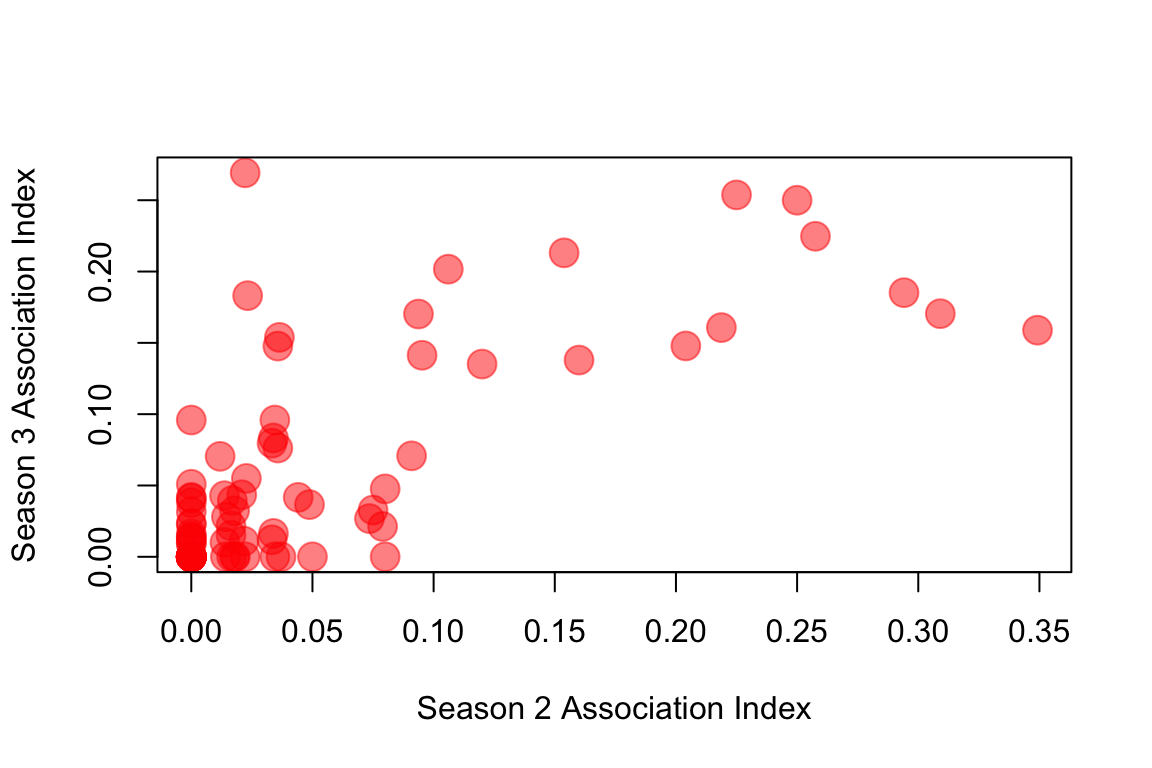
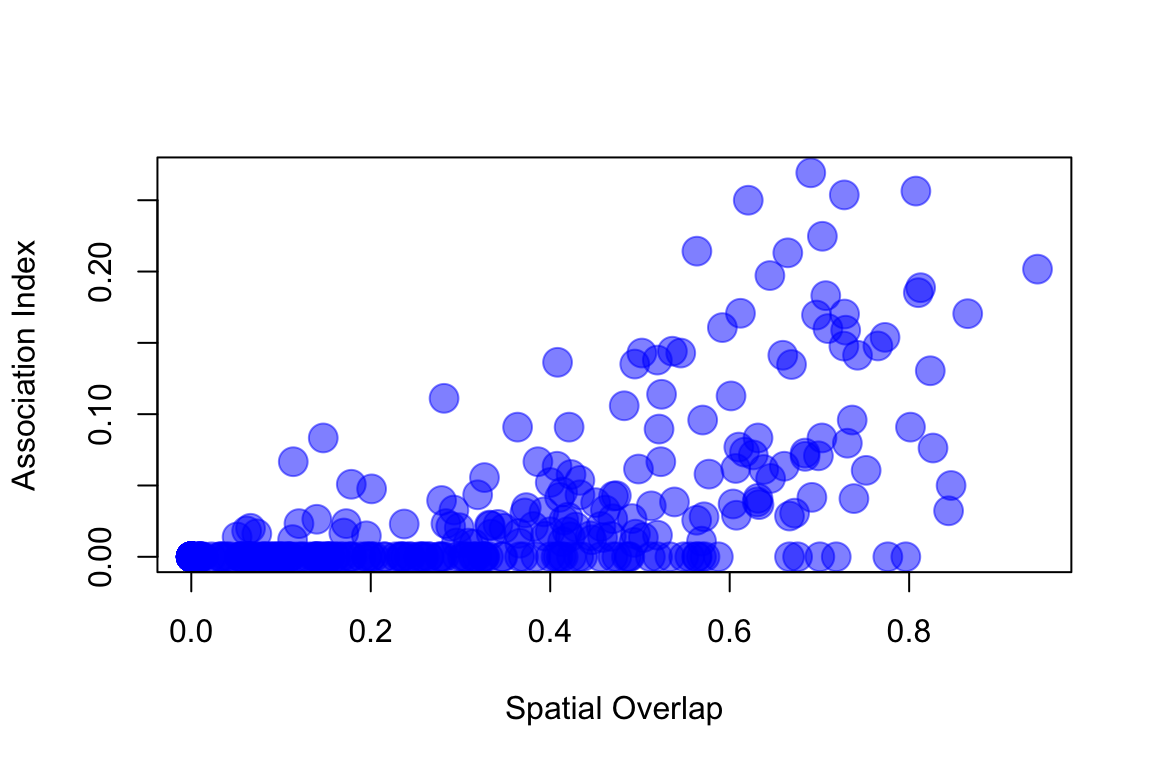
finish sparrow network exercise

diff --git a/example_sparrownet_analysis.html b/example_sparrownet_analysis.html
@@ -211,6 +211,7 @@ $(document).ready(function () {
 <li><a href="#testing-modularity-of-empirical-network-against-randomized-networks">Testing modularity of empirical network against randomized networks</a></li>
 <li><a href="#bootstrapping-to-account-for-sampling-error">Bootstrapping to account for sampling error</a></li>
 <li><a href="#testing-the-consistency-of-association-patterns-between-years">Testing the consistency of association patterns between years</a></li>
+<li><a href="#using-mrqap-to-test-for-the-effects-of-spatial-overlap-and-previous-years-association">Using MRQAP to test for the effects of spatial overlap and previous year’s association</a></li>
 </ul>
 </div>
 
@@ -259,9 +260,9 @@ adjs=lapply(m.list, function(x) get_network(t(x), data_format=&quot;GBI&quot;, a
 
 gs</code></pre>
 <pre><code>## [[1]]
-## IGRAPH 9b2b136 UNW- 39 312 -- 
+## IGRAPH c5a47fc UNW- 39 312 -- 
 ## + attr: name (v/c), weight (e/n)
-## + edges from 9b2b136 (vertex names):
+## + edges from c5a47fc (vertex names):
 ##  [1] 23734--23778 23734--23809 23734--23772 23734--7623  23734--7614 
 ##  [6] 23773--23778 23773--23732 23773--23774 23773--23862 23773--7615 
 ## [11] 23773--7636  23773--23891 23773--23772 23773--23777 23773--7627 
@@ -273,9 +274,9 @@ gs</code></pre>
 ## + ... omitted several edges
 ## 
 ## [[2]]
-## IGRAPH 16fe1e1 UNW- 26 143 -- 
+## IGRAPH 79a7c0c UNW- 26 143 -- 
 ## + attr: name (v/c), weight (e/n)
-## + edges from 16fe1e1 (vertex names):
+## + edges from 79a7c0c (vertex names):
 ##  [1] 7660 --23815 7660 --23853 7660 --7635  7660 --7673  7660 --23862
 ##  [6] 7660 --23854 7660 --7658  7660 --7609  7660 --7615  7660 --23778
 ## [11] 7660 --23770 7660 --7680  7668 --23815 7668 --23774 7668 --7673 
@@ -348,7 +349,6 @@ abline(v=mods[[1]], col=&quot;red&quot;, lty=2, lwd=2) </code></pre>
 <pre class="r"><code>p=(length(which(mod.swap2&gt;=mods[[1]]))+1)/100001
 p</code></pre>
 <pre><code>## [1] 9.9999e-06</code></pre>
-<p><img src="assets/images/example_sparrowanalysis_mswap2.png" width="70%" style="display: block; margin: auto;" /></p>
 <p>In either case, the empirical modularity value is much larger than what we expect from random. However, the P-values are different because we are comparing the empirical test statistic against a much larger pool of randomized values in the ‘serial method’ test (10,000 vs. 100).</p>
 <hr />
 </div>
@@ -364,10 +364,10 @@ g.boot=graph_from_adjacency_matrix(get_network(t(nm1)), &quot;undirected&quot;, 
 com.boot[i]=modularity(cluster_fast_greedy(g.boot)) #calculate modularity using fast_greedy community detection
 }</code></pre>
 <pre class="r"><code>boxplot(com.boot, ylab=&quot;Modularity&quot;, las=1)</code></pre>
-<p><img src="example_sparrownet_analysis_files/figure-html/unnamed-chunk-16-1.png" width="576" style="display: block; margin: auto;" /></p>
+<p><img src="example_sparrownet_analysis_files/figure-html/unnamed-chunk-15-1.png" width="576" style="display: block; margin: auto;" /></p>
 <p>We can compare the modularity values generated from this bootstrapping scheme against the modularity values generated from the randomization (i.e., group membership swap) presented above.</p>
 <pre class="r"><code>boxplot(mod.swap2[1000:10000], com.boot, col=&quot;gray&quot;, las=1, names=c(&quot;Null&quot;, &quot;Empirical \n(bootstrap)&quot;), ylab=&quot;Modularity&quot;)</code></pre>
-<p><img src="example_sparrownet_analysis_files/figure-html/unnamed-chunk-17-1.png" width="576" style="display: block; margin: auto;" /></p>
+<p><img src="example_sparrownet_analysis_files/figure-html/unnamed-chunk-16-1.png" width="576" style="display: block; margin: auto;" /></p>
 <p><em>Note: In the actual study, we used a second type of randomization scheme, which we call the “spatial null model”, which accounts for the home ranges of each individual and the location of each flock observation (not presented here). Figure 2 from the Shizuka et al. (2014) paper presents the resulting distributions of modularity values from the two randomization schemes (group membership swap &amp; spatial flock model) and the bootstrapped empirical values.</em></p>
 </div>
 <div id="testing-the-consistency-of-association-patterns-between-years" class="section level2">
@@ -387,9 +387,61 @@ mantel12=mantel(as.dist(m12)~as.dist(m21))
 mantel12</code></pre>
 <pre><code>##    mantelr      pval1      pval2      pval3  llim.2.5% ulim.97.5% 
 ##  0.7393206  0.0010000  1.0000000  0.0010000  0.6370620  0.8402951</code></pre>
-<p>So the Mantel r coefficient = 0.73, a very high correlation of association indices across years. One way to visualize this is to simply plot the association indices from Season 2 against those of Season 3. Here, I’m only going to plot the values for the upper triangle of the adjacency matrix, since the matrix is symmetrical. I’m also going to use the <code>rgb()</code> function to make transparent red circles to plot so that we can see the overlapping points.</p>
+<p>So the Mantel r coefficient = 0.74, a very high correlation of association indices across years. One way to visualize this is to simply plot the association indices from Season 2 against those of Season 3. Here, I’m only going to plot the values for the upper triangle of the adjacency matrix, since the matrix is symmetrical. I’m also going to use the <code>rgb()</code> function to make transparent red circles to plot so that we can see the overlapping points.</p>
 <pre class="r"><code>plot(m12[upper.tri(m12)], m21[upper.tri(m21)], pch=19, col=rgb(1,0,0,0.5), cex=2, xlab=&quot;Season 2 Association Index&quot;, ylab=&quot;Season 3 Association Index&quot;)</code></pre>
+<p><img src="example_sparrownet_analysis_files/figure-html/unnamed-chunk-18-1.png" width="576" style="display: block; margin: auto;" /></p>
+</div>
+<div id="using-mrqap-to-test-for-the-effects-of-spatial-overlap-and-previous-years-association" class="section level2">
+<h2>Using MRQAP to test for the effects of spatial overlap and previous year’s association</h2>
+<p>The Mantel Test and the plot above shows us that there is significant correlation between the association indices across years–i.e., birds flock with the same individuals each year. However, this effect could simply be driven by the fact that these birds are faithful to their home ranges rather than their social associates. This is important because there is no doubt that spatial overlap influences social associations (it has to, since associations are measured as co-occurrence in time and space). For example, if we import a matrix of spatial overlap between each pair of each individual (measured as the proportion of joint home range that is shared) and plot the association index relative to this measure, we get this:</p>
+<pre class="r"><code>s3=as.matrix(read.csv(&quot;GCSPspaceoverlap3.csv&quot;, header=T, row.names=1))
+ids.s3=match(rownames(s3), rownames(adjs[[2]]))
+ids.s3=na.omit(ids.s3)
+ids.adj2=match(rownames(adjs[[2]]), rownames(s3) )
+ids.adj2=na.omit(ids.adj2)
+
+s3.use=s3[ids.s3, ids.s3]
+adj.use=adjs[[2]][ids.adj2, ids.adj2]
+s3.use=s3.use[order(rownames(s3.use)),order(rownames(s3.use))]
+adj.use=adj.use[order(rownames(adj.use)),order(rownames(adj.use))]
+plot(s3.use[upper.tri(s3.use)], adj.use[upper.tri(adj.use)], pch=19, cex=2, col=rgb(0,0,1, 0.5), xlab=&quot;Spatial Overlap&quot;, ylab=&quot;Association Index&quot;)</code></pre>
 <p><img src="example_sparrownet_analysis_files/figure-html/unnamed-chunk-19-1.png" width="576" style="display: block; margin: auto;" /></p>
+<p>So how can we test for the effect of the previous year’s association on the current year’s association while taking into account the amount of spatial overlap in home ranges? This is where MRQAP (aka ‘network regression’) comes in. Here, we can use the ‘spatial overlap matrix’ and ‘previous year’s adjacency matrix’ as covariates to test their effects on the ‘current year adjacency matrix’. Briefly, the MRQAP with Double-Semipartialing (Krackhardt 1988; Dekker et al. 2007) is related to the Mantel Test, but permutes the residual matrix from each independent variable to calculate the effect of each variable on the response variable matrix. I recommend reading Dekker et al. (2007) for details on the method. We can implement MRQAP in ‘asnipe’ or ‘sna’ packages. Here, I will demonstrate its application with the ‘asnipe’ package. First, let’s make the spatial overlap matrix restricted to the individuals that are included in both seasons, and sorted in the same way as the adjacency matrices:</p>
+<pre class="r"><code>s3.match=s3.use[match(rownames(m21),rownames(s3.use)), match(rownames(m21),rownames(s3.use))] #sort rows and columns to match the adjacency matrix</code></pre>
+<p>Now we have already made the relevant matrices: adjacency matrix of Season 3 (dependent variable), adjacency matrix of Season 2 (independent variable 1), spatial overlap matrix of Season 3 (independent variable 2), each with only birds that are in both seasons. We can now run the MRQAP model:</p>
+<pre class="r"><code>mrqap.dsp(m21~m12 + s3.match)</code></pre>
+<pre><code>## MRQAP with Double-Semi-Partialing (DSP)
+## 
+## Formula:  m21 ~ m12 + s3.match 
+## 
+## Coefficients:
+##           Estimate    P(β&gt;=r) P(β&lt;=r) P(|β|&lt;=|r|)
+## intercept -0.01749305 0.068   0.932   0.069      
+## m12        0.45328523 1.000   0.000   0.000      
+## s3.match   0.12343038 1.000   0.000   0.000      
+## 
+## Residual standard error: 0.04051 on 88 degrees of freedom
+## F-statistic: 98.65 on 2 and 88 degrees of freedom, p-value:     0 
+## Multiple R-squared: 0.6915   Adjusted R-squared: 0.6845 
+## AIC: -35.74197</code></pre>
+<p>You can see that both of the independent variables, spatial overlap (s3.match) and the adjacency matrix of the previous year (m12) are significant predictors of the current year’s adjacency matrix. The overall fit of the model is very good (adjusted <span class="math inline">\(R^2 = 0.67\)</span>), which suggests that these two variables explain a great deal of the variation in pairwise flock associations. We can’t really compare the magnitudes of effect here (despite what we said in the paper…) because we did not scale the two independnet matrices before running the model…</p>
+<p>But we can try it here!</p>
+<pre class="r"><code>mrqap.dsp(scale(m21)~scale(m12) + scale(s3.match))</code></pre>
+<pre><code>## MRQAP with Double-Semi-Partialing (DSP)
+## 
+## Formula:  scale(m21) ~ scale(m12) + scale(s3.match) 
+## 
+## Coefficients:
+##                 Estimate   P(β&gt;=r) P(β&lt;=r) P(|β|&lt;=|r|)
+## intercept       0.01269215 0.551   0.449   0.722      
+## scale(m12)      0.43393270 1.000   0.000   0.000      
+## scale(s3.match) 0.53650775 1.000   0.000   0.000      
+## 
+## Residual standard error: 0.6302 on 88 degrees of freedom
+## F-statistic: 83.06 on 2 and 88 degrees of freedom, p-value:     0 
+## Multiple R-squared: 0.6537   Adjusted R-squared: 0.6458 
+## AIC: -88.04498</code></pre>
+<p>Now, these results suggest that the effect of home range overlap (0.54) is slightly greater than the effect of previous year’s associations (0.43), but still, there is quite a significant pattern for preferentially flocking with last year’s flock-mates.</p>
 </div>
 
 
